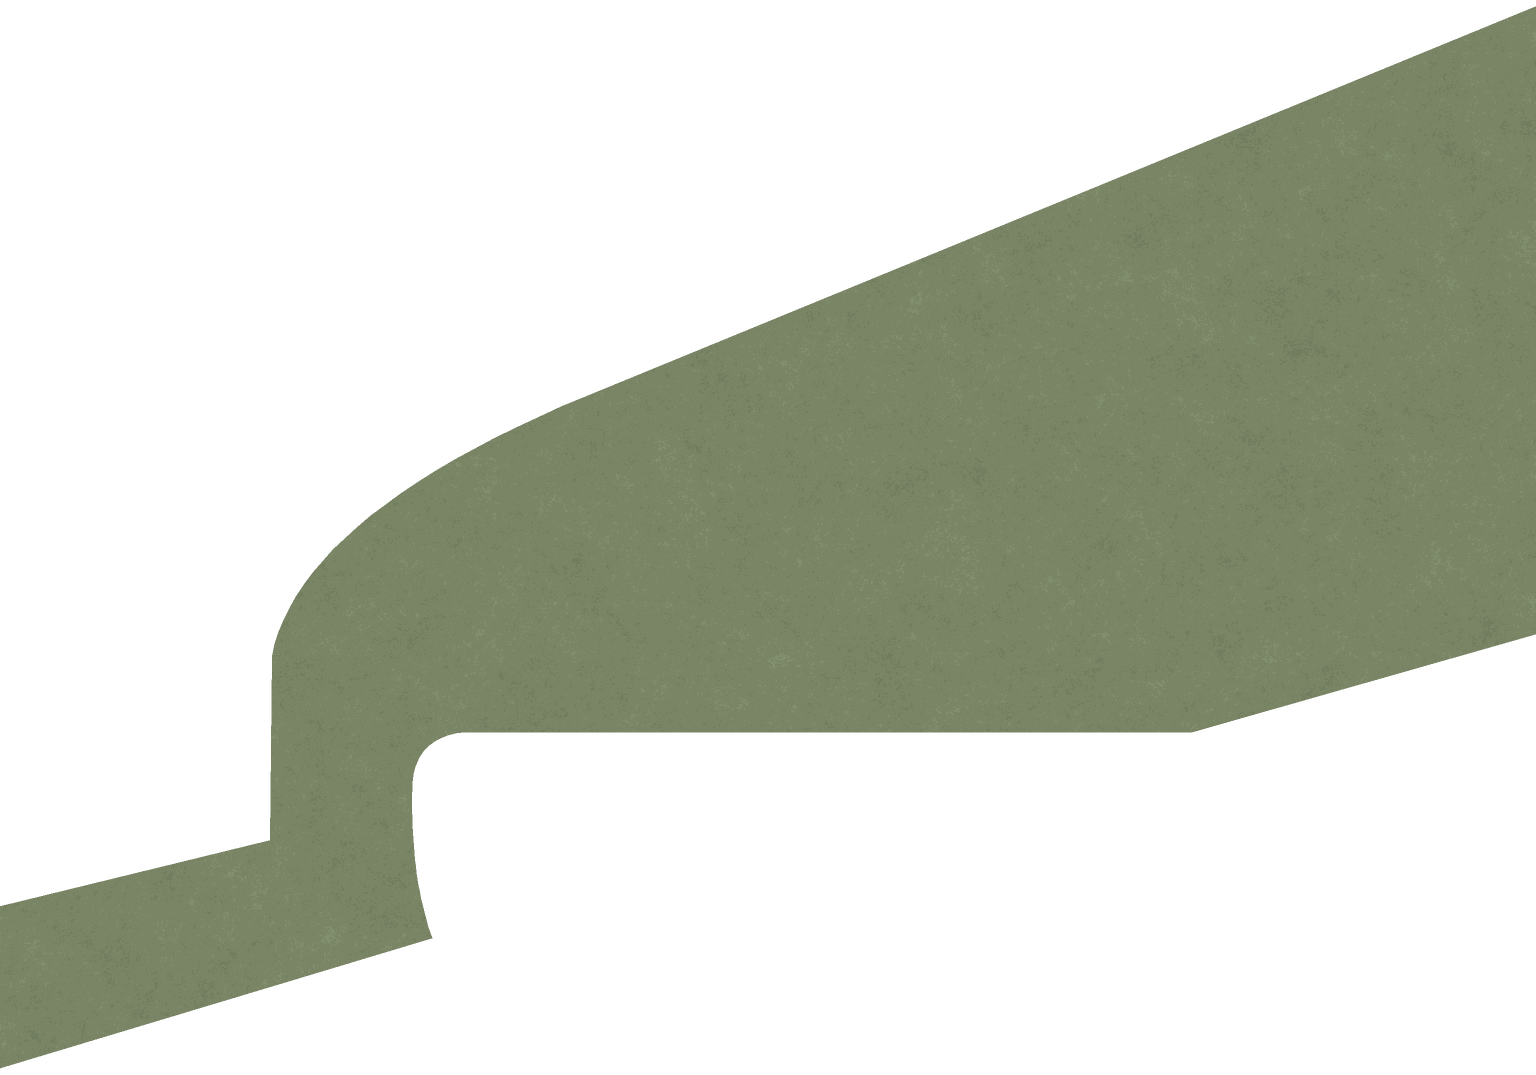
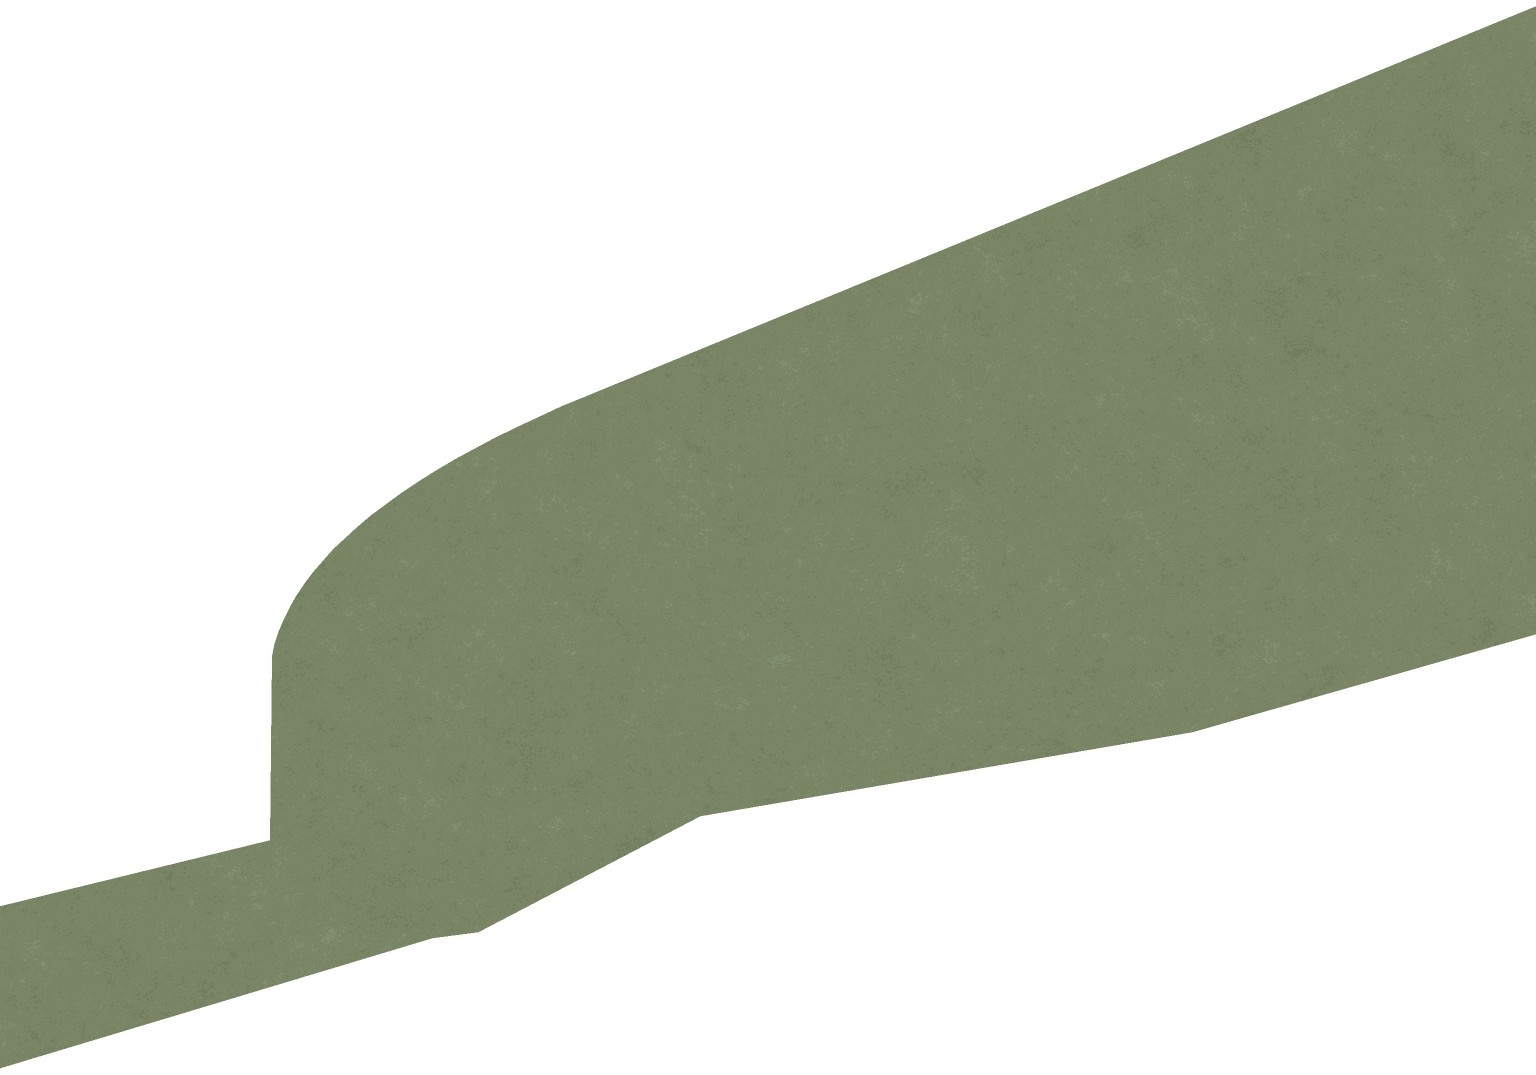
Critic 6 fixes: phone-audible score, effects over music, letters land on clicks, crown splash, pressed stamp, brand line
Sound: bass up an octave, 110 Hz high-pass, marimba line 500-1500 Hz, beater-click kick;
music 0.42 under effects (catch +15, strike +18, splash +8, stamp +17 dB); audible roll/lift/fall;
phone check (HP 200 Hz) -23.7 -> -16.4 LUFS; per-letter reform clicks from timing.json.
Picture: L back in the word 0.4 s sooner, each letter lands on its click; crown splash on the
impact frame, ripples kept inside the glass; one continuous camera move into the end card;
stamp pressed (no fade); end mark 'Xiaoye Coffee' (HANDOFF.md). Assets: glass speckle smoothed,
sage notch beside the coaster removed.

Claude-Session: https://claude.ai/code/session_01MJqkb4TrrLFNCT63A43qR6

Changed region(s): [[0.25, 0.6753, 0.7812, 0.8902]]

diff --git a/js/reel-scene.js b/js/reel-scene.js
@@ -18,6 +18,7 @@ XY.buildReel = function (canvas) {
   const W = 1536, H = 2731, DURATION = 10;
   // shared clock with the score (film/timing.json -> js/timing.js); picture is cut to the audio
   const TM = Object.assign({ catch: 1.57, rings: 2.45, strike: 4.85, splash: 6.5, stamp: 7.93, type_land: 8.1 }, window.REEL_TIMING || {});
+  const RL = Object.assign({ L: 5.8, C: 5.98, O1: 5.98, O2: 6.06, E: 6.05, S: 6.1, T: 6.15 }, (window.REEL_TIMING_DETAIL || {}).reform);
 
   const BEATS = [
     // re-timed after critic round 1: the cut was stalling, so its slack went to FALL and HERO
@@ -42,7 +43,7 @@ XY.buildReel = function (canvas) {
   const ts = TYPE.w / cool.w;
   TYPE.h = cool.h * ts;
   const typeRect = (r) => ({ x: TYPE.x + (r.x - cool.x) * ts, y: TYPE.y + (r.y - cool.y) * ts, w: r.w * ts, h: r.h * ts });
-  const TYPE_HOME = { x: 228 - TYPE.x, y: 700 - TYPE.y }; // end-card position of the type block (glass rim overlaps COFFEE, as on the poster)
+  const TYPE_HOME = { x: 228 - TYPE.x, y: 760 - TYPE.y }; // end-card position of the type block (glass rim overlaps COFFEE, as on the poster)
 
   const LEMON = { w: 250, h: 169 }; // 1.25x after critic round 1: readable at phone size
   // anchored at its lower end, which feeds the C; steep enough that the waiting lemons are in frame
@@ -74,6 +75,7 @@ XY.buildReel = function (canvas) {
   pngLayer("07_SHAPE_SAGE.png", product(rect("07_SHAPE_SAGE.png")), -110);
   const terracotta = pngLayer("08_SHAPE_TERRACOTTA.png", product(rect("08_SHAPE_TERRACOTTA.png")), -90);
   const copy = XY.posterCopy(layer("", { x: 0, y: 0, w: W, h: H }, -60));
+  XY.el("p", "copy__brand", copy, "Xiaoye Coffee"); // end mark (HANDOFF.md: "夏野豆行 (Xiaoye Coffee)")
   pngLayer("03_WOOD_COASTER.png", product(rect("03_WOOD_COASTER.png")), -20);
   pngLayer("01_CUP_LEMON.png", product(cup), 0);
   pngLayer("02_SPOON.png", product(rect("02_SPOON.png")), 14);
@@ -185,6 +187,13 @@ XY.buildReel = function (canvas) {
     gsap.set(d, { xPercent: -50, yPercent: -50 });
     return d;
   });
+  const crown = layer("crown", null, 63);
+  crown.innerHTML = '<svg viewBox="0 0 200 100" aria-hidden="true"><path fill="#e7c9a2" d="' +
+    Array.from({ length: 13 }, (_, i) => {
+      const x = 10 + i * 15, h = 40 + ((i * 37) % 5) * 9;
+      return `M${x - 5} 100 Q${x - 2} ${100 - h * 0.6} ${x} ${100 - h} Q${x + 2} ${100 - h * 0.6} ${x + 5} 100 Z`;
+    }).join(" ") + '"/></svg>';
+  gsap.set(crown, { xPercent: -50, yPercent: -100, x: LAND.x, y: LAND.y + 40, width: 300, height: 150, transformOrigin: "50% 100%" });
   const ripple = layer("ripple", null, 58);
   gsap.set(ripple, { xPercent: -50, yPercent: -50, x: LAND.x, y: LAND.y + 24 });
   const ripple2 = layer("ripple ripple--inner", null, 58);
@@ -207,6 +216,7 @@ XY.buildReel = function (canvas) {
     .set(lemonA, { autoAlpha: 1, z: 2 }, 0)
     .set(wheel, { autoAlpha: 0, rotationX: 0, rotationY: 60, rotation: 0, scale: 1 }, 0)
     .set(shadow, { autoAlpha: 0, scale: 0.4 }, 0)
+    .set(crown, { autoAlpha: 0 }, 0)
     .set(stage.offset, { s: 1 }, 0)
     .fromTo(cam, { rx: 6, ry: -7, x: 0 }, { rx: 3, ry: 5, duration: 7.6, ease: "sine.inOut" }, 0);
 
@@ -270,12 +280,16 @@ XY.buildReel = function (canvas) {
     .to(wheel, { x: "+=70", y: "+=22", rotationY: 8, rotation: 14, duration: 0.38, ease: "power2.out" }, HIT + 0.02) // peels face-on
     .to(lemonA, { x: "-=18", duration: 0.25, ease: "power2.out" }, HIT + 0.02)
     .to(rampGroup, { x: -900, duration: 0.6, ease: "power2.in" }, 5.3)   // off-camera during the close-up, so it never re-enters
-    // the stub rolls back out through the rings (visible, unhurried), then the word re-forms
+    // the stub rolls back out through the rings (visible, unhurried), then the word re-forms;
+    // every letter lands on its click in film/timing.json (hits.reform.letters)
     .to(lemonA, { x: -260, y: axisY(-260), rotation: "-=300", duration: 1.0, ease: "power1.in" }, 5.3)
-    .to([O1, O2], { rotationY: 0, duration: 0.45, stagger: 0.08, ease: "back.out(1.4)" }, 5.75)
-    .to(C, { x: 0, duration: 0.4 }, 5.8)
-    .to(Lb, { y: 0, rotation: 0, duration: 0.5, ease: "power3.inOut" }, 5.85)
-    .to([E, S, T], { x: 0, duration: 0.4, stagger: 0.05 }, 5.95);
+    .to(Lb, { y: 0, rotation: 0, duration: 0.5, ease: "power3.inOut" }, RL.L - 0.5)
+    .to(O1, { rotationY: 0, duration: 0.45, ease: "power3.out" }, RL.O1 - 0.45)
+    .to(O2, { rotationY: 0, duration: 0.45, ease: "power3.out" }, RL.O2 - 0.45)
+    .to(C, { x: 0, duration: 0.4, ease: "power3.out" }, RL.C - 0.4)
+    .to(E, { x: 0, duration: 0.4, ease: "power3.out" }, RL.E - 0.4)
+    .to(S, { x: 0, duration: 0.4, ease: "power3.out" }, RL.S - 0.4)
+    .to(T, { x: 0, duration: 0.4, ease: "power3.out" }, RL.T - 0.4);
   juice.forEach((d, i) => {
     const a = -Math.PI * (0.25 + 0.5 * (i / (juice.length - 1)));
     tl.fromTo(d, { x: cutX + 6, y: tip.y, autoAlpha: 1, scale: 1 },
@@ -291,9 +305,11 @@ XY.buildReel = function (canvas) {
     .to(wheel, { y: LAND.y - 14, duration: 0.18, ease: "power2.out", yoyo: true, repeat: 1 }, SPLASH)
     .fromTo(wheel.firstChild, { clipPath: "inset(0% 0% 0% 0%)" }, { clipPath: "inset(0% 0% 45% 0%)", duration: 0.3, ease: "power2.out", immediateRender: false }, SPLASH) // sinks into the foam
     .to(shadow, { autoAlpha: 0.7, scale: 1, duration: 0.25, ease: "power2.out" }, SPLASH - 0.1)
-    .fromTo(ripple, { autoAlpha: 0.95, scale: 0.5 }, { autoAlpha: 0, scale: 1.6, duration: 0.85, ease: "power2.out", immediateRender: false }, SPLASH)
-    .fromTo(ripple2, { autoAlpha: 0.8, scale: 0.4 }, { autoAlpha: 0, scale: 1.1, duration: 0.8, ease: "power2.out", immediateRender: false }, SPLASH + 0.1)
-    .fromTo(cam, { x: 0 }, { x: -7, duration: 0.033, yoyo: true, repeat: 3, ease: "sine.inOut", immediateRender: false }, SPLASH); // impact
+    .fromTo(ripple, { autoAlpha: 0.95, scale: 0.5 }, { autoAlpha: 0, scale: 1.0, duration: 0.85, ease: "power2.out", immediateRender: false }, SPLASH)
+    .fromTo(ripple2, { autoAlpha: 0.8, scale: 0.4 }, { autoAlpha: 0, scale: 0.85, duration: 0.8, ease: "power2.out", immediateRender: false }, SPLASH + 0.1)
+    .fromTo(cam, { x: 0 }, { x: -7, duration: 0.033, yoyo: true, repeat: 3, ease: "sine.inOut", immediateRender: false }, SPLASH) // impact
+    .fromTo(crown, { autoAlpha: 1, scaleY: 0.25, scaleX: 0.7 }, { scaleY: 1, scaleX: 1.05, duration: 0.16, ease: "power2.out", immediateRender: false }, SPLASH) // on the impact frame
+    .to(crown, { autoAlpha: 0, scaleY: 0.4, duration: 0.25, ease: "power2.in" }, SPLASH + 0.16)
   drops.forEach((d, i) => {
     const a = -Math.PI * (0.12 + (0.76 * i) / (drops.length - 1)); // symmetric crown out of the surface
     const r = 120 + ((i * 37) % 3) * 50;
@@ -310,8 +326,9 @@ XY.buildReel = function (canvas) {
   tl.to(cam, { rx: 0, ry: 0, duration: 1.1, ease: "sine.inOut" }, 7.10)
     .to(typeGroup, { x: TYPE_HOME.x, y: TYPE_HOME.y, duration: 0.75, ease: "power3.inOut" }, TM.type_land - 0.75) // lands on the beat
     // the stamp is pressed: it lands (thud) on the off-beat, then settles
-    .fromTo(stamp, { autoAlpha: 0, scale: 1.35, rotation: -18 }, { autoAlpha: 1, scale: 0.97, rotation: 0, duration: 0.2, ease: "power3.in", immediateRender: false }, TM.stamp - 0.2)
-    .to(stamp, { scale: 1, duration: 0.35, ease: "back.out(2)" }, TM.stamp)
+    .set(stamp, { autoAlpha: 1 }, TM.stamp - 0.16)  // no fade: it is pressed
+    .fromTo(stamp, { scale: 1.6, rotation: -14 }, { scale: 0.94, rotation: 0, duration: 0.16, ease: "power4.in", immediateRender: false }, TM.stamp - 0.16)
+    .to(stamp, { scale: 1, duration: 0.3, ease: "back.out(2.5)" }, TM.stamp)
     .to(copy, { autoAlpha: 1, y: 0, duration: 0.5, ease: "power2.out" }, 7.85)       // end card readable from 8.4 s
     .to(wheel, { rotation: "+=16", duration: 2.4, ease: "sine.inOut" }, 7.10)
     .to(stage.offset, { s: 1.03, duration: 1.4, ease: "sine.inOut" }, 8.10);         // the hold keeps breathing to the last frame
@@ -332,10 +349,8 @@ XY.buildReel = function (canvas) {
     [HIT, 930, 800, 2.0],         // the stroke, close
     [5.35, 900, 850, 1.85],
     [6.0, 700, 1250, 1.2],        // FALL: pull out ahead of the wheel (word re-forming in frame)...
-    [6.45, 620, LAND.y - 260, 1.1], // ...arriving as it lands
-    [6.95, 600, LAND.y - 220, 1.16], // and pushing in through the impact (no stall)
-    [7.4, 640, LAND.y - 300, 1.06],
-    [8.2, W / 2, H / 2, 1.0],     // HERO: the full poster
+    [6.45, 620, LAND.y - 260, 1.1], // ...arriving as it lands, then one eased move into the end card
+    [8.3, W / 2, H / 2, 1.0],     // HERO: the full poster
     [DURATION, W / 2, H / 2, 1.0],
   ];
   const tangents = KEYS.map((k, i) => (i === 0 || i === KEYS.length - 1) ? [0, 0, 0] :

diff --git a/js/timing.js b/js/timing.js
@@ -1,2 +1,3 @@
 // Generated by film/audio.py from film/timing.json - the shared clock for picture and sound.
-window.REEL_TIMING = {"roll": 0.2, "catch": 1.5167, "rings": 2.35, "ring_pass": 3.183, "lift": 4.2, "strike": 4.85, "fall": 5.45, "reform": 5.75, "splash": 6.5167, "stamp": 7.7667, "type_land": 8.1833};
+window.REEL_TIMING = {"roll": 0.2, "catch": 1.5167, "rings": 2.35, "ring_pass": 3.183, "lift": 4.2, "strike": 4.85, "fall": 5.45, "reform": 5.8, "splash": 6.5167, "stamp": 7.7667, "type_land": 8.1833};
+window.REEL_TIMING_DETAIL = {"reform": {"L": 5.8, "C": 5.98, "O1": 5.98, "O2": 6.06, "E": 6.05, "S": 6.1, "T": 6.15}};

diff --git a/css/styles.css b/css/styles.css
@@ -350,3 +350,8 @@ a { color: inherit; }
 .ramp__front { height: 34px; }
 .ramp__stop { top: -86px; width: 34px; height: 90px; }
 .ramp__wall { height: 64px; background: linear-gradient(#a3ad8b, #8d9874); border-radius: 6px 6px 0 0; transform-origin: 0 100%; }
+.is-reel .copy__brand { position: absolute; right: 210px; top: 668px; font-size: 40px; font-weight: 600; letter-spacing: .22em; color: var(--ink); text-align: right; }
+.copy__brand { display: none; }
+.is-reel .copy__brand { display: block; }
+.crown { opacity: 0; visibility: hidden; }
+.crown svg { width: 100%; height: 100%; display: block; }

diff --git a/film/audio.py b/film/audio.py
@@ -35,6 +35,7 @@ H = {k: v["t"] for k, v in T["hits"].items()}
 with open(os.path.join(ROOT, "js", "timing.js"), "w") as fh:
     fh.write("// Generated by film/audio.py from film/timing.json - the shared clock for picture and sound.\n")
     fh.write("window.REEL_TIMING = " + json.dumps({k: v["t"] for k, v in T["hits"].items()}) + ";\n")
+    fh.write("window.REEL_TIMING_DETAIL = " + json.dumps({"reform": T["hits"]["reform"].get("letters", {})}) + ";\n")
 
 
 def bp(x, lo, hi, order=4):
@@ -88,7 +89,8 @@ music = np.zeros((N, 2))
 for i, (c0, notes) in enumerate(CH):
     c1 = CH[i + 1][0] if i + 1 < len(CH) else DUR
     root, voicing = notes[0], notes[1:]
-    bass = note(hz(root - 12), c0, c1 - c0, 0.55, bright=0.3) + 0.6 * np.sin(2 * np.pi * hz(root - 12) * t) * env(c0, 0.04, 1.4, c1 - c0)
+    # bass an octave up from before, with partials, so a phone speaker still hears the line
+    bass = note(hz(root), c0, c1 - c0, 0.5, bright=1.0)
     for j, m in enumerate(voicing):
         strum = c0 + 0.018 * j
         v = note(hz(m), strum, c1 - c0, 0.16, bright=0.9 if c0 >= H["strike"] else 0.6)
@@ -100,7 +102,7 @@ for i, (c0, notes) in enumerate(CH):
 
 # soft pad under everything (filtered saw-ish), fades in from frame 0 so the hook has air
 pad = sum(np.sin(2 * np.pi * hz(m) * t + k) / (k + 1) for k, m in enumerate([62, 66, 69, 74]))
-pad = lp(pad, 1800) * np.clip(t / 0.6, 0, 1) * 0.05
+pad = hp(lp(pad, 1800), 300) * np.clip(t / 0.6, 0, 1) * 0.05
 music += pad[:, None]
 
 # percussion: shaker 8ths from the catch, warm kick on beats from the drop to the resolve
@@ -117,9 +119,29 @@ for b in beats:
     if H["strike"] - 0.01 <= b <= H["type_land"] + 0.01:
         x = t - b
         on = (x >= 0) & (x < 0.5)
-        f = 52 + 70 * np.exp(-x[on] / 0.03)
-        kick[on] += np.sin(2 * np.pi * np.cumsum(f) / SR) * np.exp(-x[on] / 0.16) * 0.5
+        f = 85 + 90 * np.exp(-x[on] / 0.025)
+        kick[on] += np.sin(2 * np.pi * np.cumsum(f) / SR) * np.exp(-x[on] / 0.12) * 0.35
+        kick[on] += hp(noise, 2500)[on] * np.exp(-x[on] / 0.008) * 0.08  # beater click: audible on phones
 music += (shaker + kick)[:, None]
+
+# marimba line in the 500-1500 Hz band: bright, summery, carries the score on small speakers
+mallet = np.zeros(N)
+for i, (c0, notes) in enumerate(CH):
+    c1 = CH[i + 1][0] if i + 1 < len(CH) else DUR
+    if c0 < H["catch"] - 0.01:
+        continue
+    tones = [m + 12 for m in notes[2:]]
+    k = 0
+    tt = c0
+    while tt < c1 - 0.05:
+        f = hz(tones[(k * 2) % len(tones)])
+        x = t - tt
+        on = (x >= 0) & (x < 0.6)
+        mallet[on] += (np.sin(2 * np.pi * f * x[on]) + 0.25 * np.sin(2 * np.pi * 3.9 * f * x[on]) * np.exp(-x[on] / 0.02)) * np.exp(-x[on] / 0.22) * (0.16 if k % 2 == 0 else 0.11)
+        k += 1
+        tt += BEAT / 2
+music += np.stack([mallet * 0.9, mallet * 1.1], 1)
+music = np.stack([hp(music[:, 0], 110), hp(music[:, 1], 110)], 1)  # no sub energy a phone cannot play
 
 # ------------------------------------------------------------------ sound effects
 # each on its own band, above the music's body
@@ -137,34 +159,37 @@ def whoosh(t0, length, lo, hi, gain, rise=True):
     return gain * shape * sum(b * wi for b, wi in zip(bands, w))
 
 
-sfx += whoosh(H["roll"], 0.95, 300, 900, 0.10)                                     # roll down the chute
-sfx += lp(np.sin(2 * np.pi * 820 * t) * env(H["catch"], 0.001, 0.05) + 0.5 * np.sin(2 * np.pi * 1530 * t) * env(H["catch"], 0.001, 0.03), 4000) * 0.5  # wooden tock
+roll = whoosh(H["roll"], 0.95, 500, 1500, 1.6)                                     # roll down the chute
+roll *= 1 + 0.5 * np.sin(2 * np.pi * 9 * np.clip(t - H["roll"], 0, None))           # a lemon tumbling, not just air
+sfx += roll
+sfx += lp(np.sin(2 * np.pi * 820 * t) * env(H["catch"], 0.001, 0.05) + 0.5 * np.sin(2 * np.pi * 1530 * t) * env(H["catch"], 0.001, 0.03), 4000) * 0.9  # wooden tock
 sfx += hp(noise, 2000) * env(H["catch"], 0.0005, 0.006) * 0.25                   # tock click
-sfx += whoosh(H["rings"] - 0.1, 0.35, 1200, 3200, 0.16)                           # rings turn
-sfx += whoosh(H["ring_pass"] - 0.25, 0.45, 900, 2400, 0.12)                       # lemon through the rings
-sfx += whoosh(H["lift"] - 0.05, 0.3, 1500, 4000, 0.10)                            # L lifts
-sfx += hp(noise, 3500) * env(H["strike"], 0.0005, 0.045) * 0.55                   # slice "shk"
+sfx += whoosh(H["rings"] - 0.1, 0.35, 1200, 3200, 0.9)                            # rings turn
+sfx += whoosh(H["ring_pass"] - 0.25, 0.45, 900, 2400, 0.35)                       # lemon through the rings
+sfx += whoosh(H["lift"] - 0.05, 0.3, 1500, 4000, 0.35)                            # L lifts
+sfx += hp(noise, 3500) * env(H["strike"], 0.0005, 0.045) * 0.95                   # slice "shk"
 sfx += np.sin(2 * np.pi * 2960 * t) * env(H["strike"], 0.001, 0.18) * 0.10        # blade ring
 sfx += bp(noise, 2500, 7000) * env(H["strike"] + 0.03, 0.01, 0.06) * 0.12          # juice spritz
-sfx += whoosh(H["fall"], H["splash"] - H["fall"], 600, 2200, 0.09, rise=False)    # the wheel falls
-for k in range(5):                                                                 # letters click home
-    tc = H["reform"] + k * 0.09
-    sfx += bp(noise, 2500, 6000) * env(tc, 0.0005, 0.012) * 0.22
+sfx += whoosh(H["fall"], H["splash"] - H["fall"], 600, 2200, 1.0, rise=False)     # the wheel falls
+for tc in sorted(set(T["hits"]["reform"].get("letters", {}).values())):             # each letter clicks home as it lands
+    sfx += bp(noise, 2500, 6000) * env(tc, 0.0005, 0.012) * 0.45
 sp = H["splash"]
-sfx += lp(noise, 2500) * env(sp, 0.002, 0.07) * 0.45                               # splash body
+sfx += lp(noise, 2500) * env(sp, 0.002, 0.07) * 0.8                                # splash body
 for k in range(6):                                                                 # bubbles
     tb = sp + 0.04 + k * 0.045
     x = t - tb
     on = (x >= 0) & (x < 0.08)
     f = 900 + 500 * k % 700 + 2500 * x[on]
     sfx[on] += np.sin(2 * np.pi * np.cumsum(np.full(on.sum(), 1.0) * f) / SR) * np.exp(-x[on] / 0.02) * 0.08
-sfx += lp(np.sin(2 * np.pi * 110 * t) * env(H["stamp"], 0.003, 0.09), 400) * 0.5   # stamp thud
-sfx += bp(noise, 1500, 5000) * env(H["stamp"], 0.002, 0.03) * 0.12                # paper
+sfx += lp(np.sin(2 * np.pi * 180 * t) * env(H["stamp"], 0.003, 0.08), 600) * 0.5   # stamp body
+sfx += bp(noise, 1200, 5000) * env(H["stamp"], 0.001, 0.035) * 0.45               # the slap of the press
 sfx += hp(noise, 7000) * env(H["type_land"], 0.002, 0.25) * 0.05                  # settle shimmer
 
 # duck the music a touch under the biggest hits
-duck = 1 - 0.35 * np.maximum.reduce([env(H[k], 0.01, 0.18) for k in ("strike", "splash", "stamp")])
-mix = music * duck[:, None] + np.stack([sfx * 0.95, sfx * 1.05], 1)
+duck = 1 - 0.5 * np.maximum.reduce([env(H[k], 0.01, 0.18) for k in ("catch", "strike", "splash", "stamp")])
+MUSIC_GAIN = 0.42  # music sits low; effects ride 6-10 dB over it
+music_mix = music * duck[:, None] * MUSIC_GAIN
+mix = music_mix + np.stack([sfx * 0.95, sfx * 1.05], 1)
 
 os.makedirs(os.path.join(OUT, "audio"), exist_ok=True)
 def write(name, x):
@@ -205,6 +230,22 @@ for name in ("reel_sound.mp4", "reel_music_only.mp4"):
     print(f"{name}: {i:.1f} LUFS integrated, true peak {tp:.1f} dBTP")
     if abs(i + 14) > 1 or tp > -1:
         fail.append(name)
+# phone speakers: loudness with everything under 200 Hz removed
+r = subprocess.run([FF, "-hide_banner", "-i", os.path.join(OUT, "reel_sound.mp4"), "-af", "highpass=f=200,highpass=f=200,ebur128", "-f", "null", "-"], capture_output=True, text=True).stderr
+phone = float(re.findall(r"I:\s+(-?[\d.]+) LUFS", r)[-1])
+print(f"phone check (HP 200 Hz): {phone:.1f} LUFS (need >= -17)")
+if phone < -17:
+    fail.append("phone loudness")
+# effects over music, per hit (window after each onset, mixed gains)
+def db(x):
+    return 20 * np.log10(np.sqrt(np.mean(x ** 2)) + 1e-9)
+for k in ("roll", "catch", "rings", "lift", "strike", "fall", "splash", "stamp"):
+    a, b = int(H[k] * SR), int((H[k] + (0.4 if k in ("roll", "fall") else 0.1)) * SR)
+    margin = db(sfx[a:b]) - db(music_mix[a:b, 0])
+    need = 3 if k in ("catch", "strike", "splash", "stamp", "rings") else 0
+    print(f"sfx over music {k:7s}: {margin:+.1f} dB (need >= +{need})")
+    if margin < need:
+        fail.append("sfx level " + k)
 # sync: every sfx hit's onset lands within one frame of its timing.json time
 frame = 1 / T["fps"]
 e = np.abs(hp(sfx, 300))

diff --git a/tools/build_assets.py b/tools/build_assets.py
@@ -190,8 +190,9 @@ body &= ~paper
 glass_zone = glass_outline & ~body
 
 local_bg = cv2.medianBlur(L.astype(np.uint8), 31).astype(np.float32)
-contrast = L - local_bg
-glass_a = np.clip(0.05 + np.clip(np.abs(contrast) - 9, 0, None) / 30, 0, 0.9)  # ignore paper tooth
+# smoothed so paper grain behind the glass is not drawn as white speckle; only real rim strokes survive
+contrast = cv2.GaussianBlur(L - local_bg, (0, 0), 1.6)
+glass_a = np.clip(0.04 + np.clip(np.abs(contrast) - 14, 0, None) / 28, 0, 0.85)  # ignore paper tooth
 highlight = np.array([255, 252, 246], np.float32)
 shade = np.array([70, 58, 46], np.float32)
 glass_rgb = np.where((contrast > 0)[..., None], highlight, shade) * np.ones_like(P)
@@ -339,10 +340,8 @@ st.update(w=218, h=round(218 * st["h"] / st["w"], 1), x=1238, y=41)
 sage = (
     [(1536, 250), (586, 640)]
     + bezier((586, 640), (300, 760), (272, 900))
-    + [(270, 1084), (0, 1150), (0, 1312), (432, 1182)]
-    + bezier((432, 1182), (410, 1120), (412, 1032))
-    + bezier((412, 1032), (414, 978), (470, 976))
-    + [(1192, 976), (1536, 878)]
+    + [(270, 1084), (0, 1150), (0, 1312), (432, 1182), (478, 1176)]
+    + [(700, 1060), (1192, 976), (1536, 878)]  # runs under the coaster: no cream notch beside its corner
 )
 render_shape("07_SHAPE_SAGE.png", sage, SAGE)
 terracotta = [(1192, 976), (1536, 878), (1536, 1326), (1392, 1326)]
